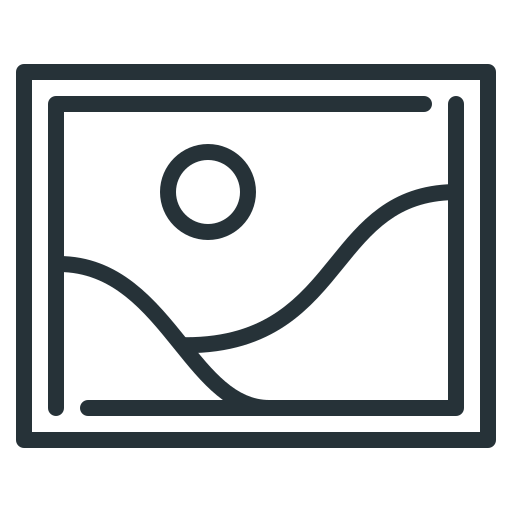
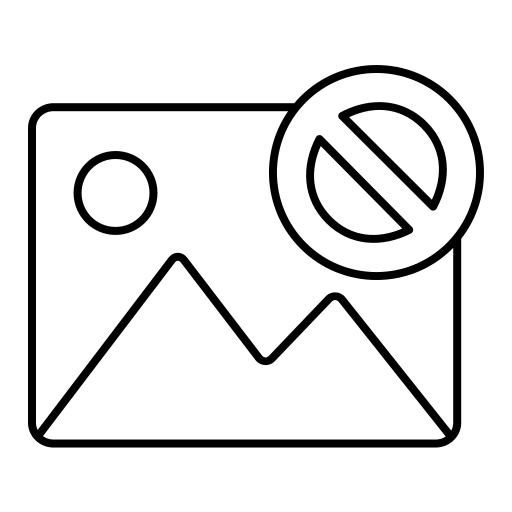
Offline

Changed region(s): [[0.0312, 0.125, 0.9688, 0.875]]

diff --git a/src/components/App/App.jsx b/src/components/App/App.jsx
@@ -5,6 +5,10 @@ import 'antd/dist/antd.min.css';
 
 import { Alert, Spin, Layout, Tabs, Pagination } from 'antd';
 import { debounce } from 'lodash';
+import { Offline, Online } from "react-detect-offline";
+
+import noConnection from '../../img/no_connection.png';
+
 import Search from '../Search';
 import CardList from '../CardList';
 import RatedList from '../RatedList';
@@ -122,23 +126,32 @@ export default class App extends Component {
 
     return (
       <div className="container">
-        <Layout>
-          <Tabs defaultActiveKey="1">
-            <TabPane tab="Search" key="1">
-              <Search onInputChange={this.onInputChange} />
-              <>
-                {errorMessage}
-                {onNotFound}
-                {spin}
-                {cardList}
-                {onPagination}
-              </>
-            </TabPane>
-            <TabPane tab="Rated" key="2">
-              <RatedList />
-            </TabPane>
-          </Tabs>
-        </Layout>
+        <Online>
+          <Layout>
+            <Tabs defaultActiveKey="1">
+              <TabPane tab="Search" key="1">
+                <Search onInputChange={this.onInputChange} />
+                <>
+                  {errorMessage}
+                  {onNotFound}
+                  {spin}
+                  {cardList}
+                  {onPagination}
+                </>
+              </TabPane>
+              <TabPane tab="Rated" key="2">
+                <RatedList />
+              </TabPane>
+            </Tabs>
+          </Layout> 
+          <img className='hidden connection_img' src={noConnection} alt='No connection' />         
+        </Online>        
+
+        <Offline>
+          <img className='connection_img' src={noConnection} alt='No connection' style={{margin: '50px'}} />
+          <h1 className='connection_text' style={{textAlign: 'center'}}>No internet connection</h1>
+        </Offline>
+        
       </div>
     );
   }

diff --git a/src/components/App/App.scss b/src/components/App/App.scss
@@ -2,6 +2,10 @@ body{
   background-color: #E5E5E5 !important;
 }
 
+.hidden {
+  display: none;
+}
+
 .container{
   max-width: 1010px;
   min-width: 460px;
